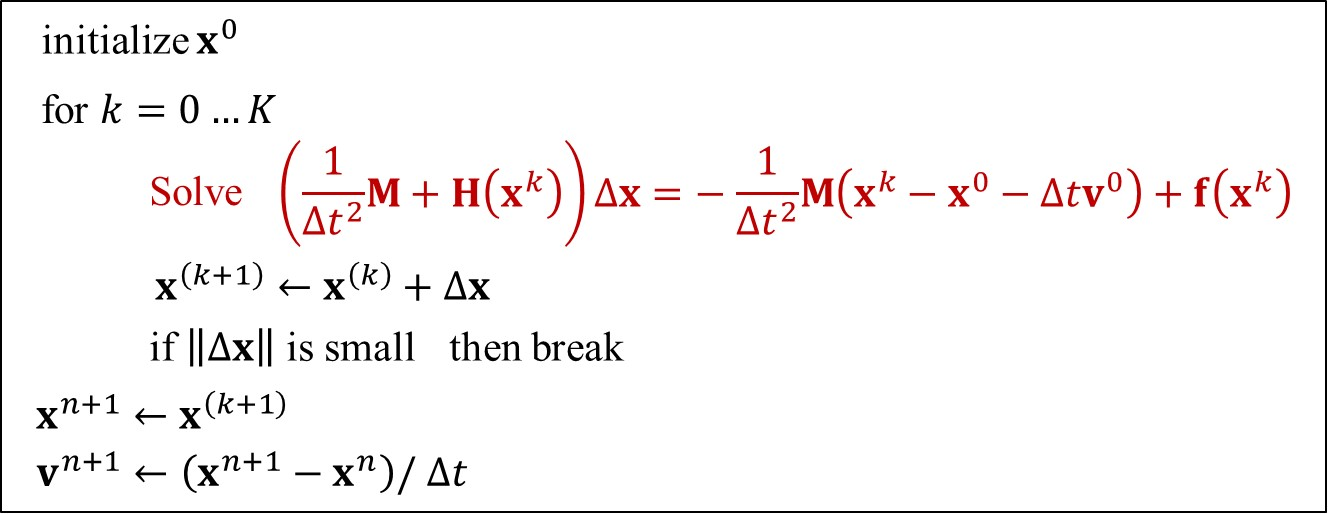
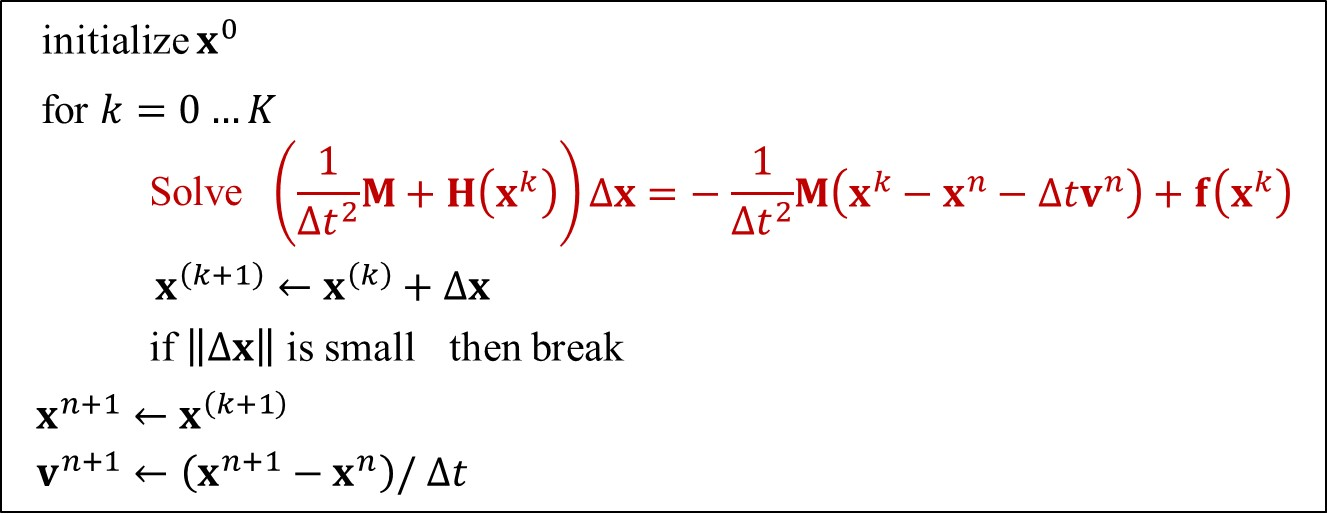
[docs] fix typos

diff --git a/docs/en/source/common/mass_spring_system.md b/docs/en/source/common/mass_spring_system.md
@@ -144,7 +144,7 @@ Specifically, we have the first and second derivatives of $F(x)$:
 ```{math}
 \begin{equation}
 \begin{cases}
-\nabla F(x^{k}) = \frac{1}{\Delta t^2} M (x^{k} - x^{0} - \Delta t v^{0}) - f(x^{k}) = 0 \\
+\nabla F(x^{k}) = \frac{1}{\Delta t^2} M (x^{k} - x^{n} - \Delta t v^{n}) - f(x^{k}) = 0 \\
 \frac{\partial F^2(x^{k})}{\partial x^2} = \frac{1}{\Delta t^2}M + H(x^{k})
 \end{cases}
 \tag{12}
@@ -283,7 +283,7 @@ x_{i+1} = x_i + \Delta x
 \end{equation}
 ```
 
-This iteratively updates $x$ and $\lambda$ that satisfy equation (29). However, as mentioned before, the evaluation of the *Hessian* is too expensive, and the system needs a line search algorithm to be robust. Therefore, XPBD makes two approximations to simplify the problem:
+This iteratively updates $x$ and $\lambda$ that satisfy equation (23). However, as mentioned before, the evaluation of the *Hessian* is too expensive, and the system needs a line search algorithm to be robust. Therefore, XPBD makes two approximations to simplify the problem:
 
 1. $K \approx M$, thus omitting geometric stiffness and Hessian terms. This approximation slows down the local convergence rate but does not change the global error.
 
@@ -338,7 +338,7 @@ s_j = \frac{- C_j(x_i) }{ \nabla C_j(x_i)M^{-1} \nabla C_{j}^{T}(x_i) } \tag{30}
 and the $\Delta x$ comes to:
 
 ```{math}
-\Delta x = k_j s_j M^{-1} \nabla C^{T}(x_i) \Delta \lambda \tag{31}
+\Delta x = k_j s_j M^{-1} \nabla C^{T}(x_i) \tag{31}
 ```
 
 ### Step Integration
@@ -373,7 +373,7 @@ where $\ddot{x}$ represents acceleration and can be represented as the second de
 Assume that $x(t)$ is a function of time $t$; our goal is to estimate the value of $x$ at time $t^{n+1}$. We first linearize $x(t)$ using a Taylor expansion:
 
 ```{math}
-x(t) = x(t^n) + (t - t^n)\dot{x}(t^n) + \frac{1}{2!} (t - t^n)^2 \ddot{x}(t^n) \tag{34} + ...
+x(t) = x(t^n) + (t - t^n)\dot{x}(t^n) + \frac{1}{2!} (t - t^n)^2 \ddot{x}(t^n) + ... \tag{34}
 ```
 
 Substituting $t = t^n + \Delta t$, we have the discretized representation at $x(t^n + \Delta t)$:
